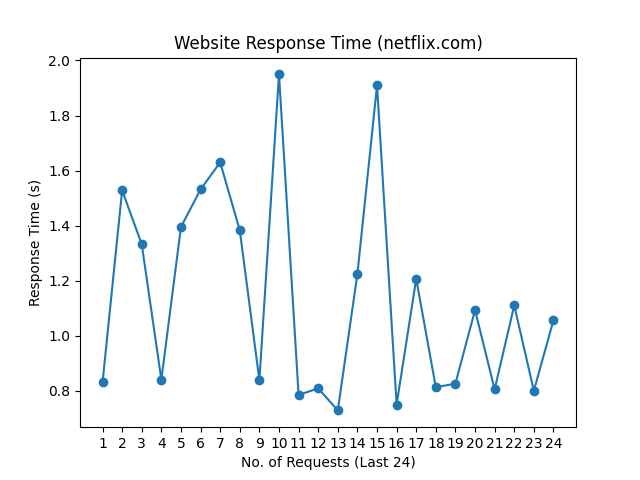
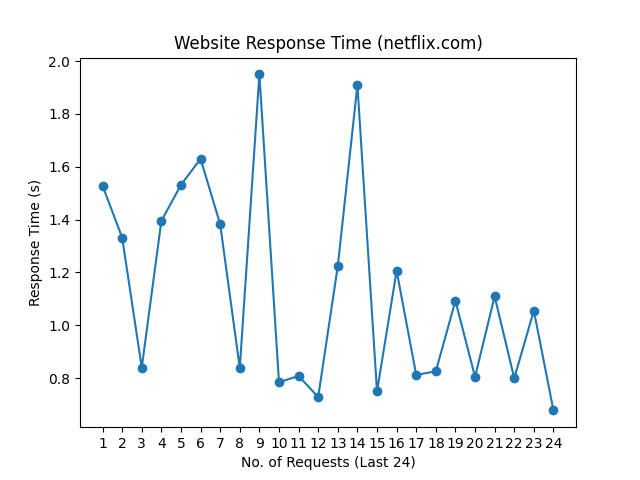
update README.md, history and graph

diff --git a/README.md b/README.md
@@ -1,10 +1,10 @@
 # Web Monitoring
 
-Last Checked: 12/01/2025 08:22
+Last Checked: 13/01/2025 08:22
 
 | Website | Response Time (s) | Status | Avg Uptime (%) |
 |---------|-------------------|--------|----------------|
 | www.thiswebsiteisdown.net | 0 <br> <img src="graph/thiswebsiteisdown.net.png" alt="Graph" width="200" height="200">  | ❌ Down | 0.00 |
-| www.netflix.com | 1.055568 <br> <img src="graph/netflix.com.png" alt="Graph" width="200" height="200">  | ✅ Up | 99.81 |
-| www.google.com | 0.077235 <br> <img src="graph/google.com.png" alt="Graph" width="200" height="200">  | ✅ Up | 100.00 |
-| www.facebook.com | 0.572934 <br> <img src="graph/facebook.com.png" alt="Graph" width="200" height="200">  | ✅ Up | 100.00 |
+| www.netflix.com | 0.677535 <br> <img src="graph/netflix.com.png" alt="Graph" width="200" height="200">  | ✅ Up | 99.81 |
+| www.google.com | 0.061659 <br> <img src="graph/google.com.png" alt="Graph" width="200" height="200">  | ✅ Up | 100.00 |
+| www.facebook.com | 0.275364 <br> <img src="graph/facebook.com.png" alt="Graph" width="200" height="200">  | ✅ Up | 100.00 |
